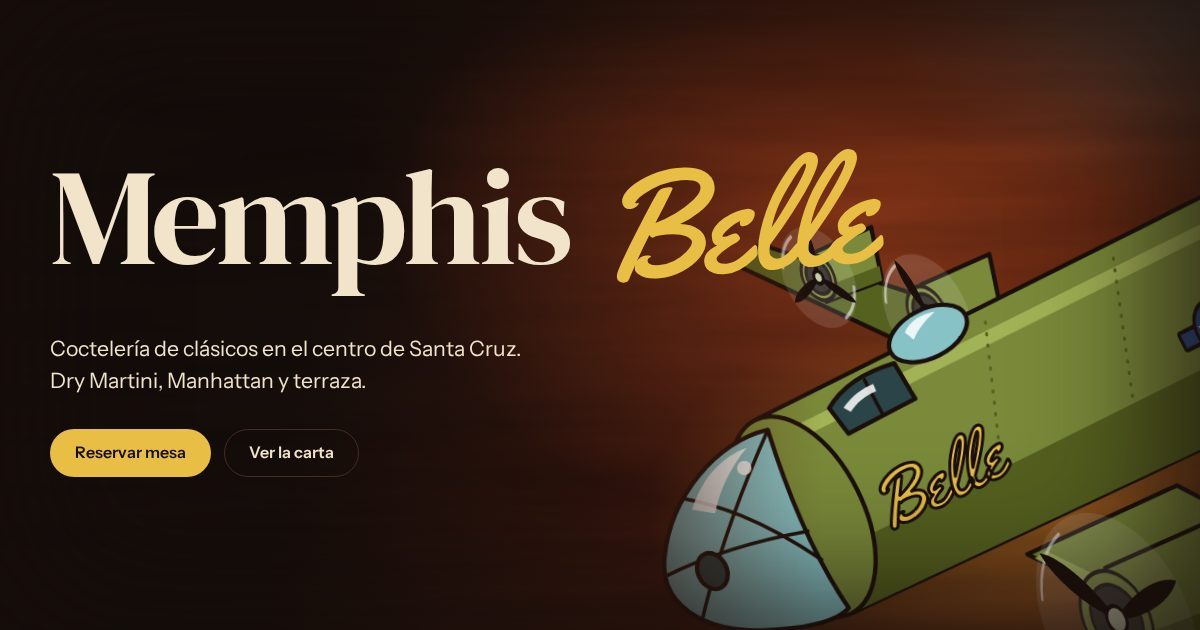
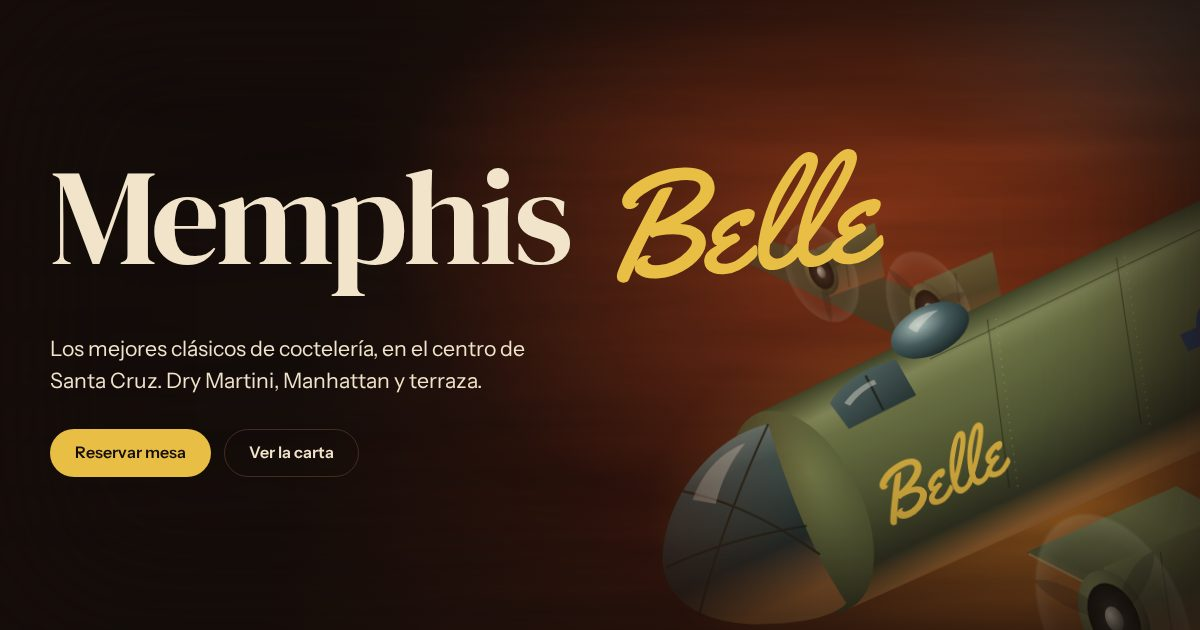
Bombardero con acabado realista y eslogan "Los mejores clásicos"
Sustituye el estilo cartoon por un acabado realista, como un cartel de
aviación de los años 40, más acorde con un público adulto y una coctelería
de clásicos: sin contornos, metal sombreado como un cilindro, el cielo
naranja reflejado en la panza y en el cristal, paneles y remaches discretos
y perspectiva aérea en el ala lejana. Hélices como discos desenfocados con
palas que apenas se intuyen y balanceo más lento y corto (10 s).

La frase de la portada pasa a ser "Los mejores clásicos de coctelería, en
el centro de Santa Cruz."

Claude-Session: https://claude.ai/code/session_015FWVJHTK1DFuU4oBGvgKEP

Changed region(s): [[0.555, 0.3016, 1.0, 1.0], [0.0308, 0.5429, 0.4317, 0.6333], [0.9867, 0.8143, 1.0, 0.8444]]

diff --git a/src/views/bombardero.js b/src/views/bombardero.js
@@ -1,9 +1,10 @@
 import { readFileSync } from 'node:fs';
 
 // Ilustración del bombardero (un B-17 de los años 40, como el del mural del local) para el fondo de la
-// portada. Dibujo propio en SVG, en estilo cartoon de los 90: contorno negro grueso, colores planos,
-// sombras de bloque y brillos blancos. Vista a 45 grados (entre frente y perfil), grande y recortada a
-// la mitad del avión: morro, cabina y el ala cercana con sus motores; la cola queda fuera del encuadre.
+// portada. Dibujo propio en SVG con acabado realista, como un cartel de aviación de la época: sin
+// contornos, metal sombreado como un cilindro, reflejos, la luz naranja del cielo rebotando en la panza
+// y líneas de paneles discretas. Vista a 45 grados, grande y recortada a la mitad del avión: morro de
+// cristal, cabina, torreta y el ala cercana con sus motores; la cola queda fuera del encuadre.
 // Va en línea en el HTML para que el CSS pueda animar las hélices y el vuelo
 // (public/css/site.css → "Bombardero"). El nombre del morro es el trazado del logotipo
 // (public/img/logo-belle.svg).
@@ -14,77 +15,143 @@ const logoPath = /<path[^>]* d="([^"]+)"/.exec(logo)[1];
 const BELLE_ANCHO = 190; // ancho del nombre pintado en el costado del morro
 const belleEscala = BELLE_ANCHO / logoW;
 
-// Pala de hélice: estrecha en el buje, ancha en el centro y redondeada en la punta.
+// Pala "fantasma" de una hélice a toda velocidad: apenas se intuye dentro del disco desenfocado.
 const pala = (r) => `M0 0 C${(r * 0.12).toFixed(1)} ${(-r * 0.3).toFixed(1)} ${(r * 0.14).toFixed(1)} ${(-r * 0.78).toFixed(1)} 0 ${-r} C${(-r * 0.14).toFixed(1)} ${(-r * 0.78).toFixed(1)} ${(-r * 0.12).toFixed(1)} ${(-r * 0.3).toFixed(1)} 0 0Z`;
 
-// Motor a 45 grados: carenado ovalado mirando hacia delante, góndola hacia atrás, y hélice de tres
-// palas que gira en el plano del carenado (ver .giro en el CSS), con un disco y dos arcos de velocidad
-// de dibujo animado. "n" (1-4) desfasa cada hélice; va en clases porque la CSP no admite estilos en
-// línea.
+// Motor a 45 grados: góndola hacia atrás, carenado mirando hacia delante y hélice girando: un disco
+// translúcido (como en una foto a velocidad real) con tres palas fantasma que giran (ver .giro en el
+// CSS). "n" (1-4) desfasa cada hélice; va en clases porque la CSP no admite estilos en línea.
 const motor = ({ x, y, r, n }) => {
   const R = Math.round(r * 2.2); // radio de la hélice
-  return `<g class="motor" transform="translate(${x} ${y})">
-      <path class="oliva" d="M${-r * 0.2} ${-r} L${r * 2.2} ${-r * 2} L${r * 2.6} ${r * 0.2} L${r * 0.3} ${r} Z"/>
-      <path class="oliva-sombra sin-linea" d="M${r * 0.1} ${r * 0.45} L${r * 2.5} ${-r * 0.4} L${r * 2.6} ${r * 0.2} L${r * 0.3} ${r} Z"/>
+  return `<g transform="translate(${x} ${y})">
+      <path fill="url(#bm-gondola)" d="M${-r * 0.2} ${-r} L${r * 2.2} ${-r * 2} L${r * 2.6} ${r * 0.2} L${r * 0.3} ${r} Z"/>
+      <path class="bm-panel" d="M${r * 0.9} ${-r * 1.28} L${r * 1.15} ${r * 0.62}"/>
       <g transform="rotate(-25) scale(.62 1)">
-        <circle class="oliva" r="${r}"/>
-        <circle class="carenado" r="${(r * 0.72).toFixed(1)}"/>
-        <circle class="helice-disco sin-linea" r="${R}"/>
-        <path class="arco sin-linea" d="M${-R * 0.82} ${-R * 0.45} A${R * 0.94} ${R * 0.94} 0 0 1 ${-R * 0.2} ${-R * 0.9} M${R * 0.82} ${R * 0.45} A${R * 0.94} ${R * 0.94} 0 0 1 ${R * 0.2} ${R * 0.9}"/>
+        <circle fill="url(#bm-carenado)" r="${r}"/>
+        <circle fill="url(#bm-toma)" r="${(r * 0.74).toFixed(1)}"/>
+        <circle fill="url(#bm-disco)" r="${R}"/>
         <g class="giro giro-${n}">
-          <path class="pala" d="${pala(R)}"/>
-          <path class="pala" d="${pala(R)}" transform="rotate(120)"/>
-          <path class="pala" d="${pala(R)}" transform="rotate(240)"/>
+          <path class="bm-pala" d="${pala(R)}"/>
+          <path class="bm-pala" d="${pala(R)}" transform="rotate(120)"/>
+          <path class="bm-pala" d="${pala(R)}" transform="rotate(240)"/>
         </g>
-        <circle class="buje" r="${(r * 0.28).toFixed(1)}"/>
+        <circle fill="url(#bm-buje)" r="${(r * 0.26).toFixed(1)}"/>
       </g>
     </g>`;
 };
 
 export const BOMBARDERO = `<div class="bombardero" aria-hidden="true">
   <svg class="bombardero-svg" viewBox="0 0 1200 800" focusable="false">
+    <defs>
+      <!-- Fuselaje como un cilindro: luz cenital, sombra propia y el naranja del cielo rebotando abajo.
+           El degradado va perpendicular al eje del avión, así que sirve a todo lo largo. -->
+      <linearGradient id="bm-fuselaje" gradientUnits="userSpaceOnUse" x1="316" y1="364" x2="443" y2="636">
+        <stop offset="0" stop-color="#3E4227"/>
+        <stop offset=".14" stop-color="#7E8455"/>
+        <stop offset=".24" stop-color="#6A7043"/>
+        <stop offset=".6" stop-color="#4C5130"/>
+        <stop offset=".86" stop-color="#2E3020"/>
+        <stop offset="1" stop-color="#8A5A2C"/>
+      </linearGradient>
+      <radialGradient id="bm-tapa" cx=".35" cy=".3" r=".8">
+        <stop offset="0" stop-color="#727848"/>
+        <stop offset=".7" stop-color="#454A2B"/>
+        <stop offset="1" stop-color="#2C2E1D"/>
+      </radialGradient>
+      <!-- Cristal del morro: oscuro, con el cielo naranja reflejado abajo y un brillo arriba. -->
+      <linearGradient id="bm-cristal" x1="0" y1="0" x2=".4" y2="1">
+        <stop offset="0" stop-color="#9DB3AE"/>
+        <stop offset=".35" stop-color="#3F5556"/>
+        <stop offset=".75" stop-color="#1F2B2C"/>
+        <stop offset="1" stop-color="#8C5A2E"/>
+      </linearGradient>
+      <linearGradient id="bm-cabina" x1="0" y1="0" x2="1" y2="1">
+        <stop offset="0" stop-color="#5F7472"/>
+        <stop offset="1" stop-color="#162021"/>
+      </linearGradient>
+      <linearGradient id="bm-ala" gradientUnits="userSpaceOnUse" x1="760" y1="470" x2="700" y2="600">
+        <stop offset="0" stop-color="#6C7246"/>
+        <stop offset=".7" stop-color="#474C2D"/>
+        <stop offset="1" stop-color="#7A5230"/>
+      </linearGradient>
+      <linearGradient id="bm-ala-lejana" x1="0" y1="0" x2="0" y2="1">
+        <stop offset="0" stop-color="#4A4F30"/>
+        <stop offset="1" stop-color="#2D2F1F"/>
+      </linearGradient>
+      <linearGradient id="bm-gondola" x1="0" y1="0" x2=".3" y2="1">
+        <stop offset="0" stop-color="#737949"/>
+        <stop offset=".6" stop-color="#454A2C"/>
+        <stop offset="1" stop-color="#7C5230"/>
+      </linearGradient>
+      <radialGradient id="bm-carenado" cx=".38" cy=".3" r=".75">
+        <stop offset="0" stop-color="#7B8150"/>
+        <stop offset=".8" stop-color="#3E4228"/>
+        <stop offset="1" stop-color="#25271A"/>
+      </radialGradient>
+      <radialGradient id="bm-toma" cx=".5" cy=".5" r=".5">
+        <stop offset="0" stop-color="#3A352E"/>
+        <stop offset=".8" stop-color="#15130F"/>
+        <stop offset="1" stop-color="#0D0C0A"/>
+      </radialGradient>
+      <radialGradient id="bm-buje" cx=".35" cy=".3" r=".7">
+        <stop offset="0" stop-color="#C9C6B4"/>
+        <stop offset="1" stop-color="#55534A"/>
+      </radialGradient>
+      <!-- Disco de la hélice a toda velocidad: borde algo más marcado, centro casi transparente. -->
+      <radialGradient id="bm-disco" cx=".5" cy=".5" r=".5">
+        <stop offset="0" stop-color="#E9E2D0" stop-opacity="0"/>
+        <stop offset=".75" stop-color="#E9E2D0" stop-opacity=".06"/>
+        <stop offset=".96" stop-color="#E9E2D0" stop-opacity=".16"/>
+        <stop offset="1" stop-color="#E9E2D0" stop-opacity="0"/>
+      </radialGradient>
+      <radialGradient id="bm-torreta" cx=".4" cy=".3" r=".75">
+        <stop offset="0" stop-color="#A9BDB8"/>
+        <stop offset=".5" stop-color="#425859"/>
+        <stop offset="1" stop-color="#1A2425"/>
+      </radialGradient>
+    </defs>
+
     <g class="bombardero-vuelo">
-      <!-- Ala lejana con sus dos motores, detrás del fuselaje (arriba a la izquierda) -->
-      <path class="oliva-sombra" d="M700 250 L330 120 L300 150 L640 320 Z"/>
-      ${motor({ x: 410, y: 168, r: 34, n: 1 })}
-      ${motor({ x: 560, y: 222, r: 40, n: 2 })}
+      <!-- Ala lejana con sus dos motores, detrás del fuselaje y algo apagada por la distancia -->
+      <g class="bm-lejos">
+        <path fill="url(#bm-ala-lejana)" d="M700 250 L330 120 L300 150 L640 320 Z"/>
+        ${motor({ x: 410, y: 168, r: 34, n: 1 })}
+        ${motor({ x: 560, y: 222, r: 40, n: 2 })}
+      </g>
 
       <!-- Fuselaje, cortado a la mitad del avión por el borde derecho -->
-      <path class="oliva" d="M316 364 L1300 -96 L1440 200 L443 636 Z"/>
-      <path class="oliva-sombra sin-linea" d="M410 556 L1380 104 L1440 200 L443 636 Z"/>
-      <path class="oliva-luz sin-linea" d="M332 392 L1312 -64 L1318 -46 L338 410 Z"/>
-      <path class="remaches sin-linea" d="M640 236 L660 470 M820 152 L846 384 M1000 70 L1030 300"/>
+      <path fill="url(#bm-fuselaje)" d="M316 364 L1300 -96 L1440 200 L443 636 Z"/>
+      <path class="bm-panel" d="M640 236 L668 470 M820 152 L852 384 M1000 70 L1036 300 M560 290 L1300 -55"/>
+      <path class="bm-remaches" d="M652 236 L680 470 M832 152 L864 384 M1012 70 L1048 300"/>
 
-      <!-- Insignia de la época en el costado -->
-      <g transform="translate(960 250) rotate(-25) scale(.74 1)">
-        <rect class="insignia-barra" x="-70" y="-13" width="140" height="26" rx="3"/>
-        <circle class="insignia-azul" r="38"/>
-        <path class="insignia-blanca sin-linea" d="M0 -32 L9.4 -11 L30.4 -9.8 L14.6 4.8 L18.8 26 L0 14.8 L-18.8 26 L-14.6 4.8 L-30.4 -9.8 L-9.4 -11 Z"/>
+      <!-- Insignia de la época, pintada y algo gastada -->
+      <g class="bm-pintura" transform="translate(960 250) rotate(-25) scale(.74 1)">
+        <rect fill="#24365C" x="-70" y="-13" width="140" height="26" rx="2"/>
+        <circle fill="#24365C" r="38"/>
+        <path fill="#D9D3C2" d="M0 -32 L9.4 -11 L30.4 -9.8 L14.6 4.8 L18.8 26 L0 14.8 L-18.8 26 L-14.6 4.8 L-30.4 -9.8 L-9.4 -11 Z"/>
       </g>
 
       <!-- Torreta superior y cabina -->
-      <ellipse class="cristal" cx="560" cy="250" rx="58" ry="34" transform="rotate(-25 560 250)"/>
-      <path class="brillo sin-linea" d="M528 248 C534 232 552 222 570 220 C556 232 546 244 540 258 Z"/>
-      <path class="cristal-oscuro" d="M420 350 C440 318 474 300 512 290 L540 340 L446 386 Z"/>
-      <path class="marco" d="M470 312 L494 360"/>
-      <path class="brillo sin-linea" d="M440 350 C452 334 466 324 482 318 L486 328 C470 334 458 344 450 356 Z"/>
+      <ellipse fill="url(#bm-torreta)" cx="560" cy="250" rx="58" ry="34" transform="rotate(-25 560 250)"/>
+      <path class="bm-reflejo" d="M530 246 C538 232 554 224 572 222 C558 232 548 242 542 254 Z"/>
+      <path fill="url(#bm-cabina)" d="M420 350 C440 318 474 300 512 290 L540 340 L446 386 Z"/>
+      <path class="bm-marco" d="M470 312 L494 360"/>
+      <path class="bm-reflejo" d="M440 350 C452 334 466 324 482 318 L485 324 C470 330 458 340 448 354 Z"/>
 
       <!-- Morro: la cara delantera del fuselaje y el morro acristalado que viene hacia nosotros -->
-      <ellipse class="oliva" cx="380" cy="500" rx="150" ry="84" transform="rotate(65 380 500)"/>
-      <path class="cristal" d="M334 378 C262 392 196 468 186 552 C178 616 236 656 320 656 C380 656 424 646 440 628 C396 560 360 470 334 378 Z"/>
-      <path class="marco" d="M334 378 C300 450 262 540 236 640 M386 520 C320 530 250 548 190 576 M214 470 C260 480 320 500 404 560"/>
-      <ellipse class="cristal-oscuro" cx="252" cy="572" rx="20" ry="26" transform="rotate(-25 252 572)"/>
-      <path class="brillo sin-linea" d="M226 486 C240 444 268 414 304 402 C282 428 266 456 258 492 Z"/>
-      <circle class="brillo sin-linea" cx="300" cy="430" r="10"/>
+      <ellipse fill="url(#bm-tapa)" cx="380" cy="500" rx="150" ry="84" transform="rotate(65 380 500)"/>
+      <path fill="url(#bm-cristal)" d="M334 378 C262 392 196 468 186 552 C178 616 236 656 320 656 C380 656 424 646 440 628 C396 560 360 470 334 378 Z"/>
+      <path class="bm-marco" d="M334 378 C300 450 262 540 236 640 M386 520 C320 530 250 548 190 576 M214 470 C260 480 320 500 404 560"/>
+      <path class="bm-reflejo" d="M228 482 C242 444 268 416 302 404 C282 428 268 456 260 488 Z"/>
 
-      <!-- "Belle" pintado en el costado del morro, con contorno de dibujo animado -->
-      <g transform="translate(470 450) rotate(-25) scale(${belleEscala.toFixed(5)}) translate(${-logoX} ${-logoY})">
-        <path class="belle-morro" d="${logoPath}" vector-effect="non-scaling-stroke"/>
+      <!-- "Belle" pintado en el costado del morro -->
+      <g class="bm-pintura" transform="translate(470 450) rotate(-25) scale(${belleEscala.toFixed(5)}) translate(${-logoX} ${-logoY})">
+        <path fill="#D9AE3E" d="${logoPath}"/>
       </g>
 
       <!-- Ala cercana con sus dos motores, saliendo del encuadre por abajo a la derecha -->
-      <path class="oliva" d="M690 560 L1260 860 L1420 760 L900 470 Z"/>
-      <path class="oliva-luz sin-linea" d="M700 566 L1266 862 L1282 852 L716 556 Z"/>
+      <path fill="url(#bm-ala)" d="M690 560 L1260 860 L1420 760 L900 470 Z"/>
+      <path class="bm-borde-ataque" d="M694 562 L1262 860"/>
       ${motor({ x: 990, y: 772, r: 64, n: 3 })}
       ${motor({ x: 812, y: 654, r: 72, n: 4 })}
     </g>

diff --git a/public/css/site.css b/public/css/site.css
@@ -161,12 +161,13 @@ ul { margin: 0; padding: 0; list-style: none; }
   box-shadow: inset 0 0 140px 30px rgba(22, 14, 11, .85);
 }
 /* ---------- Bombardero: ilustración de fondo de la portada (src/views/bombardero.js) ----------
-   Estilo cartoon de los 90: contorno negro grueso, colores planos, sombras de bloque sin degradado y
-   brillos blancos. Vista a 45 grados, grande y recortada a la mitad del avión, a la derecha y
-   difuminada hacia el título (máscara fija, sin animar).
-   Movimiento decorativo, visto una vez por visita: las hélices giran (movimiento constante: linear) y
-   el avión se balancea y se acerca un poco (ida y vuelta: curva senoidal de easings.co). Solo
-   transform, en animaciones CSS que van fuera del hilo principal. Con "reducir movimiento", quieto. */
+   Acabado realista, como un cartel de aviación de los años 40: sin contornos, metal sombreado y la
+   luz naranja del cielo en la panza (los colores van en los degradados del SVG). Vista a 45 grados,
+   grande y recortada a la mitad del avión, a la derecha y difuminada hacia el título (máscara fija).
+   Movimiento sobrio, visto una vez por visita: las hélices son un disco desenfocado con palas que
+   apenas se intuyen girando (movimiento constante: linear) y el avión se mece muy despacio (ida y
+   vuelta: curva senoidal de easings.co). Solo transform, en animaciones CSS fuera del hilo principal.
+   Con "reducir movimiento", quieto. */
 .bombardero {
   position: absolute; z-index: -1; pointer-events: none;
   right: -16%; top: 69%; width: min(72vw, 1040px);
@@ -176,26 +177,14 @@ ul { margin: 0; padding: 0; list-style: none; }
 }
 .bombardero-svg { width: 100%; height: auto; overflow: visible; }
 .bombardero-vuelo { transform-box: view-box; transform-origin: 600px 420px; }
-/* Contorno de dibujo animado en todas las piezas, salvo sombras, brillos y arcos (.sin-linea). */
-.bombardero :is(path, circle, ellipse, rect) { stroke: #1A0F0B; stroke-width: 6; stroke-linejoin: round; stroke-linecap: round; }
-.bombardero .sin-linea { stroke: none; }
-/* Colores planos del mural, algo más saturados como en los dibujos animados. */
-.bombardero .oliva { fill: #7A8A3A; }
-.bombardero .oliva-luz { fill: #A2B256; }
-.bombardero .oliva-sombra { fill: #55611F; }
-.bombardero .remaches { fill: none; stroke: #55611F; stroke-width: 4; stroke-dasharray: 2 14; }
-.bombardero .carenado { fill: #2A2622; }
-.bombardero .cristal { fill: #86C2C6; }
-.bombardero .cristal-oscuro { fill: #2B4448; }
-.bombardero .brillo { fill: #FFFFFF; opacity: .85; }
-.bombardero .marco { fill: none; stroke-width: 5; }
-.bombardero .insignia-azul, .bombardero .insignia-barra { fill: #2C4C8A; }
-.bombardero .insignia-blanca { fill: #FFFFFF; }
-.bombardero .belle-morro { fill: var(--mostaza); stroke-width: 3; }
-.bombardero .helice-disco { fill: rgba(255, 255, 255, .12); }
-.bombardero .arco { fill: none; stroke: rgba(255, 255, 255, .55); stroke-width: 5; stroke-linecap: round; }
-.bombardero .pala { fill: #1A0F0B; stroke: none; }
-.bombardero .buje { fill: #C9CDB0; }
+.bombardero .bm-panel { fill: none; stroke: rgba(20, 16, 10, .45); stroke-width: 1.5; }
+.bombardero .bm-remaches { fill: none; stroke: rgba(205, 200, 170, .22); stroke-width: 2.5; stroke-linecap: round; stroke-dasharray: .1 11; }
+.bombardero .bm-marco { fill: none; stroke: rgba(30, 32, 22, .9); stroke-width: 3; }
+.bombardero .bm-reflejo { fill: #F2EBDC; opacity: .42; }
+.bombardero .bm-pintura { opacity: .9; } /* pintura algo gastada por el uso */
+.bombardero .bm-borde-ataque { fill: none; stroke: rgba(220, 205, 160, .28); stroke-width: 3; }
+.bombardero .bm-pala { fill: rgba(18, 16, 12, .22); }
+.bombardero .bm-lejos { opacity: .72; } /* perspectiva aérea: lo lejano, más apagado */
 @media (max-width: 1100px) {
   .bombardero { top: 76%; }
 }
@@ -203,14 +192,14 @@ ul { margin: 0; padding: 0; list-style: none; }
   .bombardero { top: 76%; right: -14%; }
 }
 @media (prefers-reduced-motion: no-preference) {
-  .bombardero-vuelo { animation: flotar 7s cubic-bezier(0.37, 0, 0.63, 1) infinite alternate; }
-  .bombardero .giro { animation: girar 420ms linear infinite; }
+  .bombardero-vuelo { animation: flotar 10s cubic-bezier(0.37, 0, 0.63, 1) infinite alternate; }
+  .bombardero .giro { animation: girar 160ms linear infinite; }
   .bombardero .giro-1 { animation-delay: -60ms; }
   .bombardero .giro-2 { animation-delay: -170ms; }
   .bombardero .giro-3 { animation-delay: -250ms; }
   @keyframes flotar {
-    from { transform: translate(0, 8px) rotate(-1.5deg) scale(1); }
-    to { transform: translate(-10px, -8px) rotate(1deg) scale(1.03); }
+    from { transform: translate(0, 4px) rotate(-.6deg) scale(1); }
+    to { transform: translate(-6px, -4px) rotate(.4deg) scale(1.015); }
   }
   @keyframes girar { to { transform: rotate(360deg); } }
 }

diff --git a/test/static.test.js b/test/static.test.js
@@ -214,7 +214,8 @@ describe('portada y móvil', () => {
   test('el bombardero de la portada es decorativo y solo se mueve si el sistema lo permite', () => {
     const hero = index.slice(index.indexOf('id="inicio"'), index.indexOf('id="estrella"'));
     assert.match(hero, /<div class="bombardero" aria-hidden="true">/);
-    assert.match(hero, /class="belle-morro"/); // el nombre del morro es el logotipo
+    const logoPath = /<path[^>]* d="([^"]+)"/.exec(readFileSync(new URL('../public/img/logo-belle.svg', import.meta.url), 'utf8'))[1];
+    assert.ok(hero.includes(`d="${logoPath}"`), 'el nombre del morro es el trazado del logotipo');
     const animaciones = /@media \(prefers-reduced-motion: no-preference\) \{\s*\.bombardero-vuelo \{ animation: flotar/;
     assert.match(css, animaciones);
     // Fuera de ese bloque no hay ninguna animación del avión.

diff --git a/src/content/site.js b/src/content/site.js
@@ -54,7 +54,7 @@ export const site = {
 
   // PORTADA
   hero: {
-    lead: 'Coctelería de clásicos en el centro de Santa Cruz. Dry Martini, Manhattan y terraza.',
+    lead: 'Los mejores clásicos de coctelería, en el centro de Santa Cruz. Dry Martini, Manhattan y terraza.',
     cta: 'Reservar mesa',
     secondary: 'Ver la carta',
   },

diff --git a/docs/DISENO.md b/docs/DISENO.md
@@ -6,7 +6,7 @@ Notas de diseño para mantener la web coherente en futuros cambios.
 
 La web sale del **mural del local**: la parte frontal del bombardero Memphis Belle pintada en la pared, sobre un cielo de atardecer (óxido y ámbar que se apagan en hollín), con **"Belle" rotulado a mano en amarillo**. Ese "Belle" es el logotipo del bar.
 
-- **Portada**: recrea el cielo del mural con degradados y una textura de pintura, y por él vuela un **B-17 verde oliva** con "Belle" en el morro (`src/views/bombardero.js`, dibujo propio en SVG). En **estilo cartoon de los 90** (contorno negro grueso, colores planos, sombras de bloque, brillos blancos y arcos de velocidad en las hélices). Vista a 45 grados, grande y recortado a la mitad del avión: el morro de cristal, la cabina, la torreta y el ala cercana con sus motores; la cola queda fuera. A la derecha y difuminado hacia el título. Las hélices giran y el avión se balancea y se acerca un poco; con "reducir movimiento" queda quieto. En el móvil vuela por debajo de los botones. El estilo cartoon se limita al avión: el resto de la página mantiene la tipografía y la sobriedad de coctelería clásica. Es una ilustración plana, no una copia del mural: cuando haya una foto buena del mural, se puede valorar sustituirla o combinarla.
+- **Portada**: recrea el cielo del mural con degradados y una textura de pintura, y por él vuela un **B-17 verde oliva** con "Belle" en el morro (`src/views/bombardero.js`, dibujo propio en SVG). Con **acabado realista**, como un cartel de aviación de los años 40, pensado para un público adulto y para el eslogan "Los mejores clásicos": sin contornos, metal sombreado como un cilindro, el cielo naranja reflejado en la panza y en el cristal, líneas de paneles y remaches discretos, y el ala lejana más apagada por la distancia. Vista a 45 grados, grande y recortado a la mitad del avión: el morro de cristal, la cabina, la torreta y el ala cercana con sus motores; la cola queda fuera. A la derecha y difuminado hacia el título. Las hélices son discos desenfocados con palas que apenas se intuyen girando, y el avión se mece muy despacio; con "reducir movimiento" queda quieto. En el móvil vuela por debajo de los botones. Es una ilustración vectorial: para un realismo fotográfico, lo ideal es una foto histórica del Memphis Belle (las de las Fuerzas Aéreas de EE. UU. de la Segunda Guerra Mundial son de dominio público) o una foto buena del mural. Es una ilustración plana, no una copia del mural: cuando haya una foto buena del mural, se puede valorar sustituirla o combinarla.
 - **Logotipo**: "Memphis" en serif + "Belle" manuscrito en amarillo e inclinado, como en la pared. `public/img/logo-belle.svg` y el favicon (la "B") están trazados desde la letra Yellowtail, así que se ven igual aunque no cargue la tipografía. Cuando haya una foto de cerca de las letras del mural, se puede calcar el trazo original y sustituir el SVG.
 - **Carta**: un papel impreso sobre la barra, el único elemento claro de la página.
 
@@ -34,7 +34,7 @@ Tipografía: **DM Serif Display** (títulos, "Memphis", nombres de cócteles), *
 ## Movimiento (skills de Emil Kowalski)
 
 - Portada: entrada escalonada de 600 ms una sola vez al cargar (60 ms entre elementos). Con "reducir movimiento" no se mueve nada.
-- Bombardero: hélices con giro continuo de cara (420 ms por vuelta, linear, desfasadas entre sí) y balanceo de ida y vuelta (7 s, curva senoidal `cubic-bezier(0.37, 0, 0.63, 1)` de easings.co). Solo `transform`, en animaciones CSS fuera del hilo principal. Con "reducir movimiento", quieto.
+- Bombardero: hélices con giro continuo (160 ms por vuelta, linear, desfasadas entre sí; palas casi transparentes, como a velocidad real) y balanceo muy lento de ida y vuelta (10 s, curva senoidal `cubic-bezier(0.37, 0, 0.63, 1)` de easings.co). Solo `transform`, en animaciones CSS fuera del hilo principal. Con "reducir movimiento", quieto.
 - Pestañas de la carta: fundido de 180 ms. Es una acción frecuente, así que es corto y sin desplazamiento.
 - Botones: `scale(0.97)` al pulsar. Los `:hover` solo con ratón (`(hover: hover) and (pointer: fine)`).
 - Nada se anima al hacer scroll.
